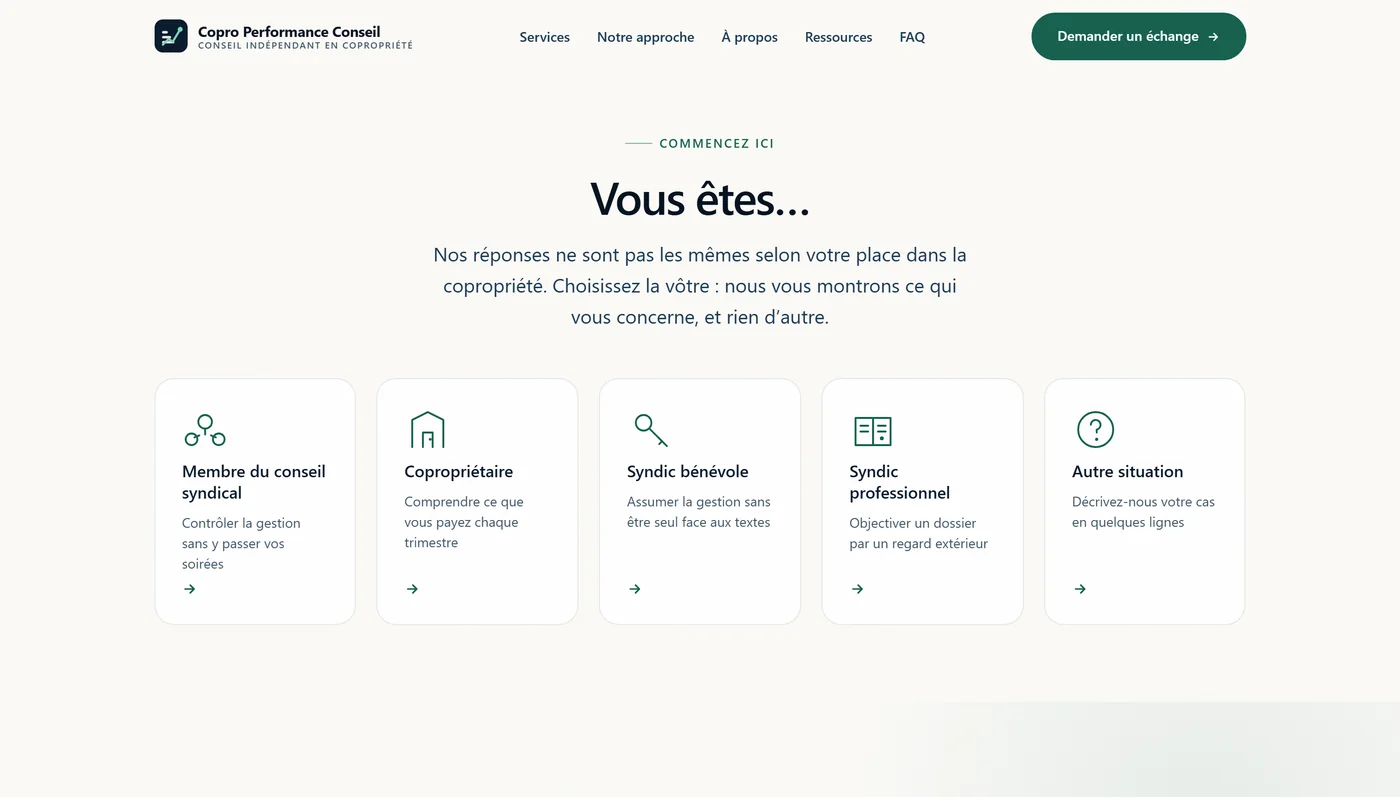
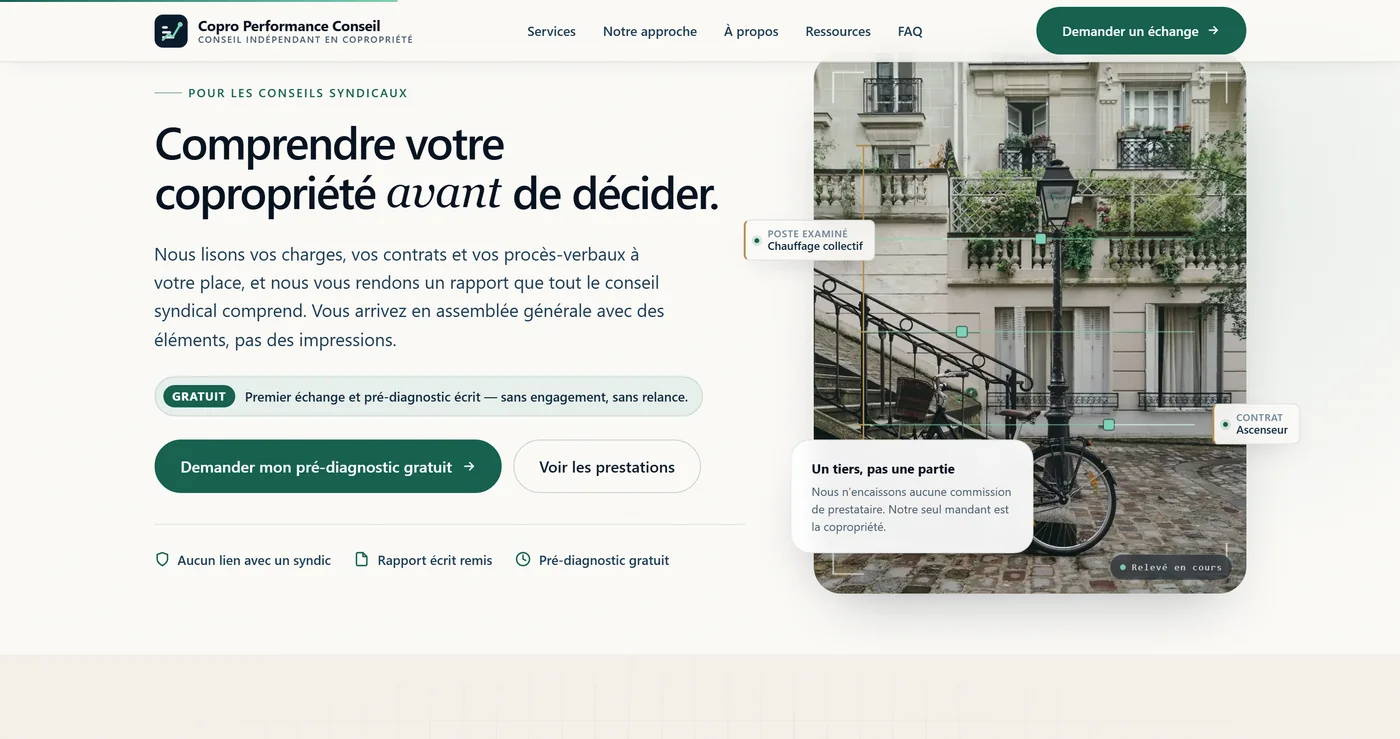
Resserre l'échelle typographique et redessine le sélecteur
Retour client : « le design est trop grand ». Mesuré à 1440 px, h1 à
59 px, h2 à 47 px, sections à 128 px de padding vertical — une échelle
d'affiche plutôt que de document professionnel.

Échelle
  h1 59 -> 46 px, h2 47 -> 34 px, corps 17 -> 16 px, padding de section
  128 -> 76 px. Les valeurs basses des clamp() bougent à peine : sur
  mobile la taille était déjà juste, c'est le haut de l'échelle qui
  posait problème.

  La modification est globale et non limitée à l'accueil. L'échelle est
  une décision de design system : une accueil 30 % plus dense que le
  reste du site aurait décroché visiblement à chaque clic dans le menu.
  services.html passe au passage de 10 900 à 8 944 px.

Sélecteur de profil
  En-tête sur deux colonnes, titre à gauche et explication à droite,
  séparés par un filet. Tuiles compactes : icône de 26 px, deux lignes,
  bordure fine, flèche au survol seulement. 254 -> 132 px de haut.
  Sous 560 px l'icône passe à gauche du texte et les cinq tuiles tiennent
  dans un écran de téléphone.

Deux défauts corrigés au passage
  - Le hero réservait encore la hauteur du header alors que le sélecteur
    le précède désormais : les deux espacements se cumulaient, soit près
    de 200 px de vide entre les blocs.
  - Le titre du sélecteur était un <h2> placé avant le <h1> du hero, ce
    qui inversait la hiérarchie. C'est désormais un paragraphe stylé et
    l'ordre est H1 > H2 > H3.

Accueil : 2 925 -> 2 273 px, soit 2,5 écrans contre 16 au point de
[…]

diff --git a/assets/css/style.css b/assets/css/style.css
@@ -70,17 +70,22 @@
   --font-display: "Instrument Serif", ui-serif, Georgia, "Times New Roman", serif;
   --font-mono: ui-monospace, SFMono-Regular, "SF Mono", Menlo, Consolas, monospace;
 
-  /* Échelle fluide */
-  --fs-xs: 0.78rem;
-  --fs-sm: 0.875rem;
-  --fs-base: clamp(1rem, 0.97rem + 0.14vw, 1.0625rem);
-  --fs-lg: clamp(1.09rem, 1.03rem + 0.28vw, 1.25rem);
-  --fs-xl: clamp(1.25rem, 1.15rem + 0.5vw, 1.5rem);
-  --fs-h4: clamp(1.15rem, 1.06rem + 0.42vw, 1.35rem);
-  --fs-h3: clamp(1.35rem, 1.18rem + 0.78vw, 1.85rem);
-  --fs-h2: clamp(1.75rem, 1.38rem + 1.72vw, 3rem);
-  --fs-h1: clamp(2.15rem, 1.55rem + 2.35vw, 3.7rem);
-  --fs-display: clamp(2.6rem, 1.7rem + 3.2vw, 4.6rem);
+  /* Échelle fluide.
+     Resserrée : le premier jeu montait à 59 px pour un h1 et 47 px pour un
+     h2 à 1440 px — une échelle d'affiche. Un cabinet de conseil se lit à
+     une densité plus proche du document que du poster. Les valeurs hautes
+     descendent d'environ 20 %, les basses ne bougent presque pas : sur
+     mobile, la taille était déjà juste. */
+  --fs-xs: 0.75rem;
+  --fs-sm: 0.845rem;
+  --fs-base: clamp(0.97rem, 0.95rem + 0.11vw, 1rem);
+  --fs-lg: clamp(1.05rem, 1rem + 0.2vw, 1.15rem);
+  --fs-xl: clamp(1.15rem, 1.06rem + 0.36vw, 1.35rem);
+  --fs-h4: clamp(1.05rem, 1rem + 0.26vw, 1.2rem);
+  --fs-h3: clamp(1.2rem, 1.08rem + 0.5vw, 1.5rem);
+  --fs-h2: clamp(1.5rem, 1.25rem + 1.05vw, 2.1rem);
+  --fs-h1: clamp(1.9rem, 1.5rem + 1.7vw, 2.9rem);
+  --fs-display: clamp(2.2rem, 1.6rem + 2.2vw, 3.4rem);
 
   --lh-tight: 1.06;
   --lh-snug: 1.18;
@@ -96,7 +101,9 @@
   --sp-7: 3rem;
   --sp-8: 4rem;
   --sp-9: 6rem;
-  --section-y: clamp(4rem, 2.4rem + 6.4vw, 8rem);
+  /* 128 px de respiration verticale par section produisaient une page
+     trois fois plus haute que nécessaire. */
+  --section-y: clamp(2.85rem, 2rem + 3.3vw, 4.75rem);
 
   /* --- Formes --- */
   --r-sm: 6px;
@@ -825,9 +832,17 @@ b {
 
 .hero {
   position: relative;
-  padding-top: calc(var(--header-h) + clamp(2rem, 1.2rem + 3.4vw, 4rem));
-  padding-bottom: clamp(3rem, 2rem + 4vw, 5.5rem);
+  padding-top: calc(var(--header-h) + clamp(1.5rem, 1rem + 2.4vw, 3rem));
+  padding-bottom: clamp(2.25rem, 1.6rem + 2.8vw, 4rem);
   overflow: hidden;
+}
+
+/* Sur l'accueil, le hero n'ouvre plus la page : le sélecteur de profil le
+   précède et réserve déjà la hauteur du header. Sans cette règle, on
+   cumule les deux et un trou de près de 200 px s'ouvre entre les deux
+   blocs. */
+.hero:not(:first-child) {
+  padding-top: clamp(1.25rem, 0.9rem + 1.6vw, 2.5rem);
 }
 
 .hero::before {
@@ -867,10 +882,12 @@ b {
 
 .hero__sub {
   font-size: var(--fs-lg);
-  line-height: 1.62;
+  line-height: 1.6;
   color: var(--ink-600);
-  margin-bottom: var(--sp-6);
-  max-width: 46ch;
+  margin-bottom: var(--sp-5);
+  /* 46ch decoupait le paragraphe en cinq lignes courtes ; a 54ch il en
+     fait trois et le bloc respire mieux face au visuel. */
+  max-width: 54ch;
 }
 
 .hero__cta {
@@ -2589,85 +2606,183 @@ select.field__control {
    ========================================================================== */
 
 .profils-section {
-  padding-top: calc(var(--header-h) + clamp(1.5rem, 1rem + 2vw, 3rem));
+  padding-top: calc(var(--header-h) + clamp(1.25rem, 0.9rem + 1.4vw, 2.25rem));
+  padding-bottom: clamp(2rem, 1.5rem + 2vw, 3.25rem);
 }
 
+/* En-tête sur deux colonnes : le titre à gauche, la phrase d'explication à
+   droite, alignés sur la même ligne de base. Un titre centré de 47 px
+   au-dessus d'un paragraphe centré, c'est une affiche ; ceci est une page
+   de travail. */
 .profils-head {
-  margin-bottom: clamp(2rem, 1.4rem + 2vw, 3rem);
+  display: grid;
+  grid-template-columns: minmax(0, 0.9fr) minmax(0, 1.1fr);
+  align-items: end;
+  gap: clamp(1rem, 0.5rem + 2vw, 3rem);
+  margin-bottom: clamp(1.5rem, 1.1rem + 1.6vw, 2.5rem);
+  padding-bottom: var(--sp-5);
+  border-bottom: 1px solid var(--border);
+}
+
+/* Volontairement pas un <h2> : le <h1> de la page vit dans le hero, juste
+   en dessous. Un h2 placé avant lui casserait la hiérarchie des titres. */
+.profils-titre {
+  font-family: var(--font-display);
+  font-size: clamp(1.75rem, 1.4rem + 1.5vw, 2.6rem);
+  line-height: 1.02;
+  letter-spacing: -0.02em;
+  color: var(--ink-900);
+}
+
+.profils-lead {
+  font-size: var(--fs-base);
+  line-height: 1.6;
+  color: var(--text-muted);
+  max-width: 54ch;
 }
 
 .profils {
   display: grid;
-  grid-template-columns: repeat(auto-fit, minmax(190px, 1fr));
-  gap: clamp(0.9rem, 0.6rem + 1vw, 1.35rem);
+  grid-template-columns: repeat(auto-fit, minmax(178px, 1fr));
+  gap: 0.75rem;
 }
 
+/* Tuile compacte : l'icône en tête, deux lignes de texte, une flèche qui
+   n'apparaît qu'au survol. 254 px de haut auparavant, ~140 désormais. */
 .profil {
   position: relative;
   display: grid;
-  grid-template-rows: auto auto 1fr auto;
-  gap: 0.55rem;
-  padding: clamp(1.25rem, 1rem + 0.8vw, 1.75rem);
-  min-height: 100%;
+  grid-template-rows: auto auto 1fr;
+  gap: 0.5rem;
+  padding: 1.05rem 1.1rem 1.15rem;
   border: 1px solid var(--border);
-  border-radius: var(--r-lg);
+  border-radius: var(--r-md);
   background: var(--surface);
   text-decoration: none;
-  transition: border-color var(--t-base), box-shadow var(--t-base),
-    transform var(--t-base), background var(--t-base);
+  transition: border-color var(--t-fast), background var(--t-fast),
+    transform var(--t-fast);
 }
 
 .profil:hover,
 .profil:focus-visible {
-  transform: translateY(-4px);
-  border-color: var(--accent-border);
-  background: var(--accent-soft);
-  box-shadow: var(--shadow-md);
+  transform: translateY(-2px);
+  border-color: var(--ink-800);
+  background: var(--surface);
 }
 
-/* L'icône se trace une fois la carte dans le champ — même grammaire que
-   les illustrations de prestation, d'où la classe `illu` qui lui apporte
-   l'animation de tracé.
-
-   Cette classe vient de signature.css, chargé APRÈS cette feuille : son
-   `width: 100%` l'emporterait sur une règle de même poids. D'où le
-   sélecteur en deux niveaux, qui reprend la main sur la taille. */
 .profil .profil__icone {
-  width: 48px;
-  height: 48px;
+  width: 26px;
+  height: 26px;
   flex: none;
   color: var(--accent);
 }
 
 .profil .profil__icone svg {
-  width: 48px;
-  height: 48px;
+  width: 26px;
+  height: 26px;
   overflow: visible;
 }
 
 .profil__titre {
-  font-size: var(--fs-base);
+  font-size: var(--fs-sm);
   font-weight: 640;
-  line-height: 1.28;
-  color: var(--ink-800);
+  line-height: 1.3;
+  letter-spacing: -0.005em;
+  color: var(--ink-900);
 }
 
 .profil__sous {
-  font-size: var(--fs-sm);
-  line-height: 1.5;
+  font-size: var(--fs-xs);
+  line-height: 1.45;
   color: var(--text-muted);
 }
 
+/* La flèche ne s'affiche qu'à l'approche : cinq flèches permanentes
+   alourdissent la rangée sans rien apprendre. */
 .profil__fleche {
+  position: absolute;
+  top: 1.05rem;
+  right: 1rem;
   display: inline-flex;
-  align-items: center;
-  color: var(--accent);
-  transition: transform var(--t-base);
+  color: var(--ink-800);
+  opacity: 0;
+  transform: translateX(-4px);
+  transition: opacity var(--t-fast), transform var(--t-fast);
 }
 
 .profil:hover .profil__fleche,
 .profil:focus-visible .profil__fleche {
-  transform: translateX(5px);
+  opacity: 1;
+  transform: none;
+}
+
+@media (max-width: 860px) {
+  .profils-head {
+    grid-template-columns: 1fr;
+    align-items: start;
+    gap: var(--sp-3);
+  }
+}
+
+@media (max-width: 560px) {
+  .profils {
+    grid-template-columns: 1fr;
+    gap: 0.5rem;
+  }
+
+  /* En colonne unique, l'icône passe à gauche : on gagne de la hauteur
+     sans perdre le repère visuel. */
+  .profil {
+    grid-template-columns: 26px 1fr;
+    grid-template-rows: auto auto;
+    align-items: start;
+    column-gap: 0.85rem;
+    row-gap: 0.2rem;
+    padding: 0.95rem 1rem;
+  }
+
+  .profil .profil__icone { grid-row: 1 / 3; margin-top: 0.1rem; }
+  .profil__fleche { display: none; }
+}
+
+/* --------------------------------------------------------------------------
+   Bande de clôture : l'offre en une liste, rien de plus.
+   -------------------------------------------------------------------------- */
+.resume-list {
+  display: flex;
+  flex-wrap: wrap;
+  justify-content: center;
+  gap: 0.5rem 0.55rem;
+  margin-bottom: var(--sp-6);
+  list-style: none;
+  padding: 0;
+}
+
+.resume-list a {
+  display: inline-block;
+  padding: 0.4rem 0.9rem;
+  border: 1px solid var(--border);
+  border-radius: var(--r-pill);
+  background: var(--surface);
+  font-size: var(--fs-sm);
+  font-weight: 520;
+  color: var(--ink-700);
+  text-decoration: none;
+  transition: border-color var(--t-fast), color var(--t-fast);
+}
+
+.resume-list a:hover,
+.resume-list a:focus-visible {
+  border-color: var(--ink-800);
+  color: var(--ink-900);
+}
+
+.resume-cta {
+  display: flex;
+  flex-direction: column;
+  align-items: center;
+  gap: var(--sp-4);
+  text-align: center;
 }
 
 /* --------------------------------------------------------------------------

diff --git a/index.html b/index.html
@@ -262,13 +262,15 @@
        pages : des liens, pas des boutons JavaScript, pour rester
        crawlables et utilisables au clavier.
        ================================================================== -->
-  <section class="section section--tight profils-section" aria-labelledby="t-profils">
+  <section class="profils-section" aria-label="Choisir votre profil">
     <div class="container">
 
-      <div class="section-head section-head--center profils-head">
-        <p class="eyebrow" data-reveal="fade">Commencez ici</p>
-        <h2 id="t-profils" data-split>Vous êtes…</h2>
-        <p class="lead" data-reveal style="--d:1">
+      <div class="profils-head">
+        <div>
+          <p class="eyebrow" data-reveal="fade">Commencez ici</p>
+          <p class="profils-titre" id="t-profils" data-reveal style="--d:1">Vous êtes…</p>
+        </div>
+        <p class="profils-lead" data-reveal style="--d:2">
           Nos réponses ne sont pas les mêmes selon votre place dans la copropriété.
           Choisissez la vôtre : nous vous montrons ce qui vous concerne, et rien d’autre.
         </p>

diff --git a/README.md b/README.md
@@ -450,8 +450,8 @@ redirige le trafic sur différentes pages en fonction du type de personne »*.
 
 ### Ce que ça donne
 
-**2 925 px, 3,3 écrans**, contre 14 409 px et 16 écrans au point de départ —
-**80 % de moins**. Trois blocs, dans cet ordre :
+**2 273 px, 2,5 écrans**, contre 14 409 px et 16 écrans au point de départ —
+**84 % de moins**. Trois blocs, dans cet ordre :
 
 1. **Le sélecteur** « Vous êtes… », cinq portes d'entrée
 2. **Le hero** et son calque de relevé
@@ -522,6 +522,56 @@ La page porte une pastille **À valider** sur ce point. Deux suites possibles :
   *« Nous n'appartenons à aucun groupe de gestion immobilière et ne percevons
   aucune commission de prestataire »* — l'indépendance devient financière et
   structurelle, plus relationnelle.
+
+---
+
+
+## L'échelle typographique, resserrée
+
+Retour client : *« le design est trop grand »*. C'était mesurable.
+
+| | Avant | Après |
+|---|---|---|
+| `h1` à 1440 px | 59 px | **46 px** |
+| `h2` | 47 px | **34 px** |
+| Corps de texte | 17 px | **16 px** |
+| Padding vertical de section | 128 px | **76 px** |
+| Tuile du sélecteur | 254 px de haut | **132 px** |
+| Page d'accueil | 2 925 px | **2 273 px** |
+
+### Pourquoi la modification est globale et non limitée à l'accueil
+
+La demande portait sur la page d'accueil. L'échelle typographique est pourtant
+une décision de design system : une accueil 30 % plus dense que le reste du site
+aurait produit un décrochage visible à chaque clic dans le menu. Les jetons
+`--fs-*` et `--section-y` ont donc été resserrés **partout**, ce qui bénéficie
+aussi aux pages longues — `services.html` passe de 10 900 à 8 944 px.
+
+Les valeurs basses des `clamp()` bougent à peine : sur mobile, la taille était
+déjà juste. C'est le haut de l'échelle — l'affichage sur grand écran — qui
+tenait de l'affiche plutôt que du document professionnel.
+
+### Ce qui a changé dans le sélecteur
+
+- **En-tête sur deux colonnes** : titre à gauche, phrase d'explication à droite,
+  alignés sur la même ligne de base, séparés du reste par un filet. Un titre
+  centré de 47 px au-dessus d'un paragraphe centré, c'est une affiche.
+- **Tuiles compactes** : icône de 26 px en tête, deux lignes de texte, bordure
+  fine. La flèche n'apparaît qu'au survol — cinq flèches permanentes alourdissent
+  la rangée sans rien apprendre.
+- **Sous 560 px**, l'icône passe à gauche du texte : les cinq tuiles tiennent
+  alors dans un seul écran de téléphone.
+
+### Un défaut corrigé au passage
+
+Le hero réservait la hauteur du header (`padding-top: calc(var(--header-h) + …)`)
+alors qu'il n'ouvre plus la page depuis que le sélecteur le précède. Les deux
+espacements se cumulaient : près de 200 px de vide entre les deux blocs. La règle
+`.hero:not(:first-child)` supprime ce report.
+
+Le titre du sélecteur est par ailleurs passé de `<h2>` à un paragraphe stylé : il
+précédait le `<h1>` du hero, ce qui inversait la hiérarchie des titres. L'ordre
+est désormais `H1 > H2 > H3`.
 
 ---
 
